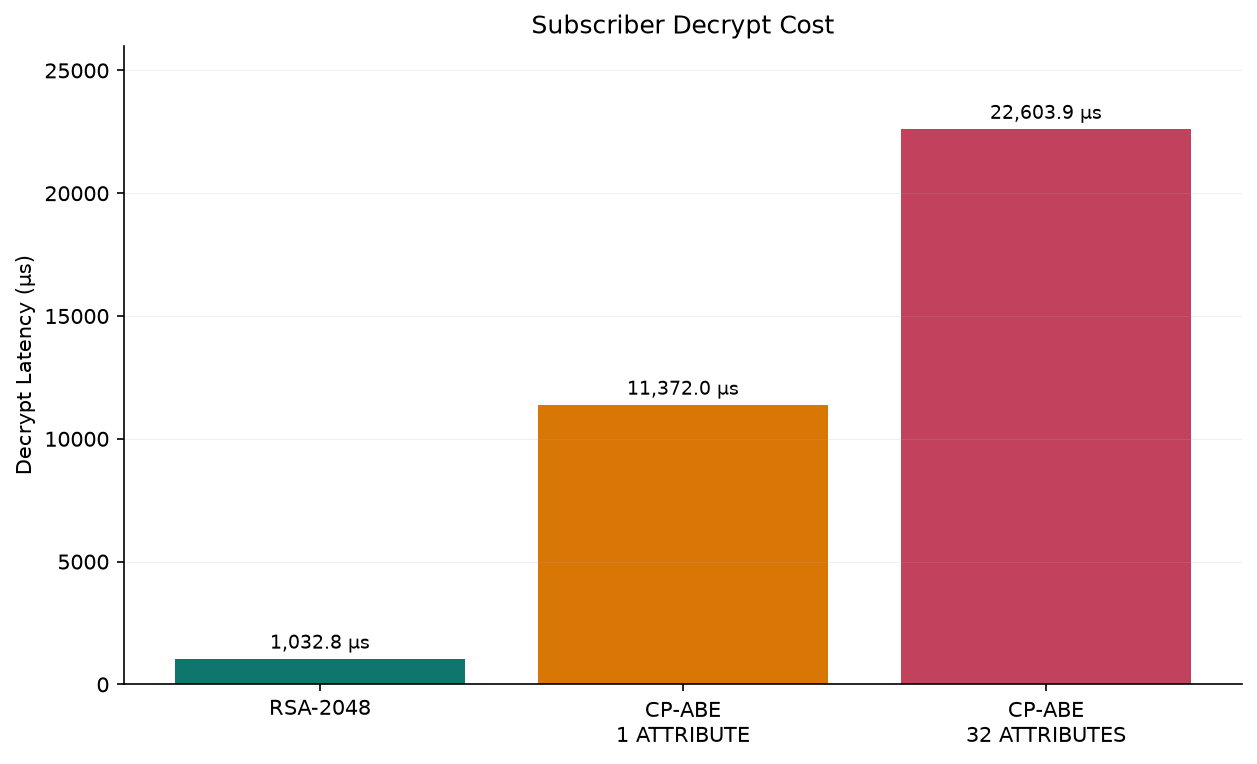
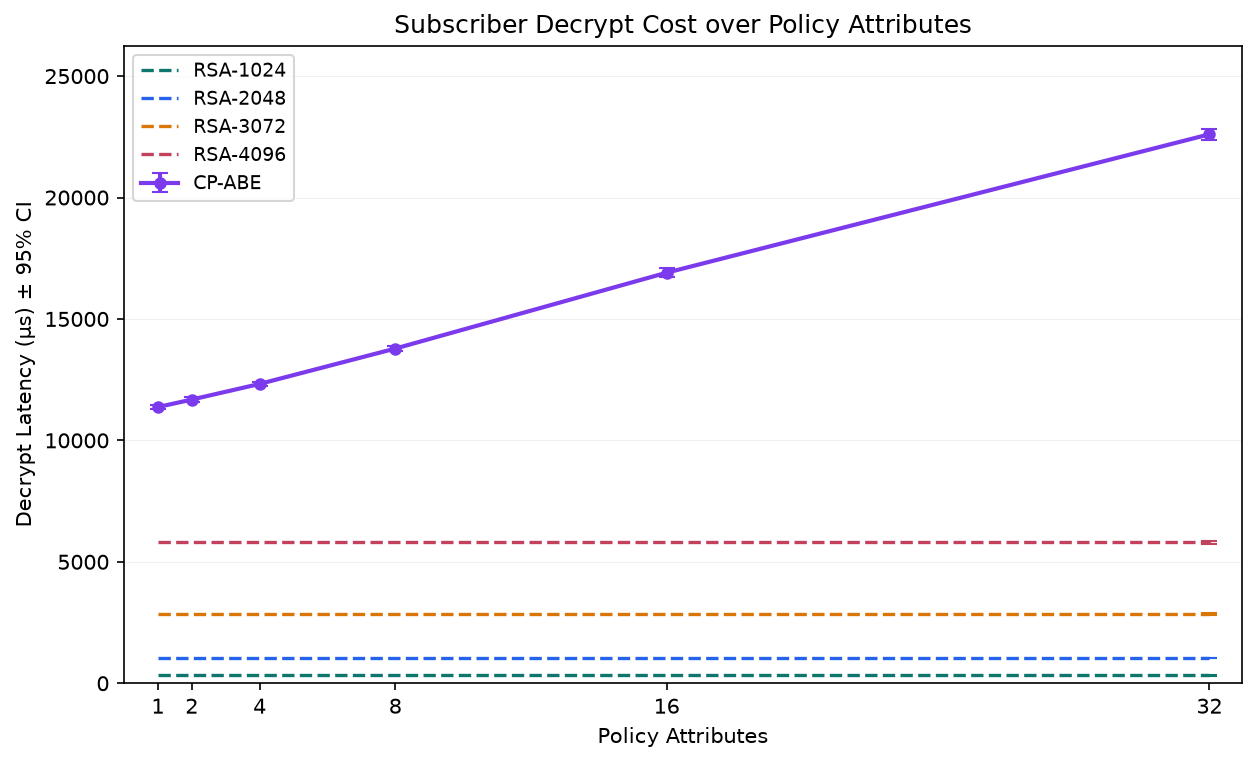
Fix comparison of cpabe - rsa on decryption

diff --git a/microbenchmark/python/template/attribute_key_scaling_template.html b/microbenchmark/python/template/attribute_key_scaling_template.html
@@ -765,7 +765,7 @@
                     </article>
 
                     <aside class="comparison-explanation">
-                        <div class="comparison-label">Bandwidth Intersection</div>
+                        <div class="comparison-label">Measured Ciphertext Size</div>
                         <div class="comparison-value">≈{{BytesCrossoverLow}} - {{BytesCrossoverHigh}} Subscribers</div>
                         <p><strong>AT {{MinAttributeLabel}}:</strong> RSA produces smaller key ciphertexts. Equality
                             with CP-ABE is
@@ -786,7 +786,7 @@
                     </article>
 
                     <aside class="comparison-explanation">
-                        <div class="comparison-label">Publisher CPU Intersection</div>
+                        <div class="comparison-label">Measured Encrypt Comparison</div>
                         <div class="comparison-value">≈{{EncryptCpuCrossoverLow}} - {{EncryptCpuCrossoverHigh}}
                             Subscribers</div>
                         <p><strong>AT {{MinAttributeLabel}}:</strong> RSA costs the publisher less CPU. Equality with
@@ -799,7 +799,7 @@
                 <div class="comparison-row">
                     <article class="plot-card">
                         <div class="plot-copy">
-                            <h3>CP-ABE vs. RSA: Subscriber Decrypt Cost</h3>
+                            <h3>CP-ABE vs. RSA: Decrypt Cost by Policy and Key Size</h3>
                         </div>
                         <div class="plot-frame">
                             <img src="{{DecryptCpuCrossoverPlot}}">
@@ -807,11 +807,14 @@
                     </article>
 
                     <aside class="comparison-explanation">
-                        <div class="comparison-label">Subscriber CPU Intersection</div>
-                        <div class="comparison-value">None</div>
-                        <p><strong>AT {{MinAttributeLabel}}:</strong> CP-ABE costs the subscriber
-                            {{DecryptPenaltyMin}}× an RSA-{{FixedRsaKeyBits}} unwrap</p>
-                        <p><strong>AT {{MaxAttributeLabel}}:</strong> That penalty widens to {{DecryptPenaltyMax}}×</p>
+                        <div class="comparison-label">RSA-{{FixedRsaKeyBits}} Decrypt Ratio</div>
+                        <div class="comparison-value">
+                            {{DecryptPenaltyMin}}× - {{DecryptPenaltyMax}}× RSA
+                        </div>
+                        <p><strong>AT {{MinAttributeLabel}}:</strong> CP-ABE requires
+                            {{DecryptPenaltyMin}}× the measured RSA-{{FixedRsaKeyBits}} decrypt latency.</p>
+                        <p><strong>AT {{MaxAttributeLabel}}:</strong> CP-ABE requires
+                            {{DecryptPenaltyMax}}× the measured RSA-{{FixedRsaKeyBits}} decrypt latency.</p>
                     </aside>
                 </div>
 

diff --git a/microbenchmark/results/attribute-key-scaling/report.html b/microbenchmark/results/attribute-key-scaling/report.html
@@ -765,7 +765,7 @@
                     </article>
 
                     <aside class="comparison-explanation">
-                        <div class="comparison-label">Bandwidth Intersection</div>
+                        <div class="comparison-label">Measured Ciphertext Size</div>
                         <div class="comparison-value">≈9.3 - 52.2 Subscribers</div>
                         <p><strong>AT 1 ATTRIBUTE:</strong> RSA produces smaller key ciphertexts. Equality
                             with CP-ABE is
@@ -786,7 +786,7 @@
                     </article>
 
                     <aside class="comparison-explanation">
-                        <div class="comparison-label">Publisher CPU Intersection</div>
+                        <div class="comparison-label">Measured Encrypt Comparison</div>
                         <div class="comparison-value">≈897 - 7,054
                             Subscribers</div>
                         <p><strong>AT 1 ATTRIBUTE:</strong> RSA costs the publisher less CPU. Equality with
@@ -799,7 +799,7 @@
                 <div class="comparison-row">
                     <article class="plot-card">
                         <div class="plot-copy">
-                            <h3>CP-ABE vs. RSA: Subscriber Decrypt Cost</h3>
+                            <h3>CP-ABE vs. RSA: Decrypt Cost by Policy and Key Size</h3>
                         </div>
                         <div class="plot-frame">
                             <img src="decrypt_cpu_crossover.png">
@@ -807,11 +807,14 @@
                     </article>
 
                     <aside class="comparison-explanation">
-                        <div class="comparison-label">Subscriber CPU Intersection</div>
-                        <div class="comparison-value">None</div>
-                        <p><strong>AT 1 ATTRIBUTE:</strong> CP-ABE costs the subscriber
-                            11.0× an RSA-2048 unwrap</p>
-                        <p><strong>AT 32 ATTRIBUTES:</strong> That penalty widens to 21.9×</p>
+                        <div class="comparison-label">RSA-2048 Decrypt Ratio</div>
+                        <div class="comparison-value">
+                            11.0× - 21.9× RSA
+                        </div>
+                        <p><strong>AT 1 ATTRIBUTE:</strong> CP-ABE requires
+                            11.0× the measured RSA-2048 decrypt latency.</p>
+                        <p><strong>AT 32 ATTRIBUTES:</strong> CP-ABE requires
+                            21.9× the measured RSA-2048 decrypt latency.</p>
                     </aside>
                 </div>
 

diff --git a/microbenchmark/python/src/attribute_key_scaling_report.py b/microbenchmark/python/src/attribute_key_scaling_report.py
@@ -956,55 +956,142 @@ def PlotEncryptCpuCrossover(summary: CpuCrossoverSummary) -> None:
     print(f"Saved -> {ENCRYPT_CPU_CROSSOVER_PNG_FILE}")
 
 
-def PlotDecryptCpuCrossover(summary: CpuCrossoverSummary) -> None:
+def PlotDecryptCpuCrossover(
+    results: dict[str, BenchmarkMetrics],
+) -> None:
 
     figure, axis = plt.subplots(figsize=(8.5, 5.2))
 
-    labels: list[str] = [
-        f"RSA-{FIXED_RSA_KEY_BITS}",
-        f"CP-ABE\n{FormatAttributeLabel(ATTRIBUTE_COUNTS[0])}",
-        f"CP-ABE\n{FormatAttributeLabel(ATTRIBUTE_COUNTS[-1])}",
-    ]
+    cpabeMeans: list[float] = []
+    cpabeCiHalfs: list[float] = []
+    largestValue: float = 0.0
 
-    values: list[float] = [
-        summary.RsaDecryptMicros,
-        summary.CpabeDecryptMicrosMin,
-        summary.CpabeDecryptMicrosMax,
-    ]
+    for attributeCount in ATTRIBUTE_COUNTS:
 
-    positions: list[int] = [0, 1, 2]
+        benchmarkCaseId: str = f"decrypt/CPABEAttributes/{attributeCount}"
 
-    axis.bar(
-        positions,
-        values,
-        color=[
-            TOTAL_CIPHERTEXT_COLOR,
-            ENCRYPT_COLOR,
-            KEYGEN_COLOR,
-        ],
-    )
+        metrics: BenchmarkMetrics | None = results.get(benchmarkCaseId)
 
-    largestValue: float = max(values)
+        if metrics is None:
+            sys.exit(
+                f"[error] missing benchmark case "
+                f"'{benchmarkCaseId}' in {BENCH_FILE}"
+            )
 
-    for index in range(len(values)):
+        latencyMean: float
+        latencyCI: float
 
-        axis.annotate(
-            f"{values[index]:,.1f} µs",
-            (positions[index], values[index]),
-            textcoords="offset points",
-            xytext=(0, 5),
-            ha="center",
-            fontsize=9,
+        latencyMean, latencyCI = MeanAndConfidenceInterval(
+            metrics.NsPerOperation,
+            T_95,
         )
 
-    axis.set_xticks(positions)
-    axis.set_xticklabels(labels)
-    axis.set_ylim(0.0, largestValue * 1.15)
-    axis.set_title("Subscriber Decrypt Cost", fontsize=12)
-    axis.set_ylabel("Decrypt Latency (µs)")
-    axis.grid(True, axis="y", linestyle="-", linewidth=0.5, alpha=0.18)
-    axis.spines["top"].set_visible(False)
-    axis.spines["right"].set_visible(False)
+        meanMicros: float = latencyMean / 1000.0
+        ciMicros: float = latencyCI / 1000.0
+
+        cpabeMeans.append(meanMicros)
+        cpabeCiHalfs.append(ciMicros)
+
+        largestValue = max(
+            largestValue,
+            meanMicros + ciMicros,
+        )
+
+    # Plot the measured CP-ABE decrypt scaling across policy attributes.
+    axis.errorbar(
+        ATTRIBUTE_COUNTS,
+        cpabeMeans,
+        yerr=cpabeCiHalfs,
+        label="CP-ABE",
+        color=DECRYPT_COLOR,
+        marker="o",
+        linewidth=2.0,
+        markersize=5,
+        capsize=4,
+    )
+
+    rsaColors: list[str] = [
+        TOTAL_CIPHERTEXT_COLOR,
+        "#2563eb",
+        ENCRYPT_COLOR,
+        KEYGEN_COLOR,
+    ]
+
+    for index in range(len(RSA_KEY_BITS_LIST)):
+
+        rsaKeyBits: int = RSA_KEY_BITS_LIST[index]
+
+        benchmarkCaseId = f"decrypt/RSAKeyBits/{rsaKeyBits}"
+
+        metrics = results.get(benchmarkCaseId)
+
+        if metrics is None:
+            sys.exit(
+                f"[error] missing benchmark case "
+                f"'{benchmarkCaseId}' in {BENCH_FILE}"
+            )
+
+        latencyMean, latencyCI = MeanAndConfidenceInterval(
+            metrics.NsPerOperation,
+            T_95,
+        )
+
+        rsaMeanMicros: float = latencyMean / 1000.0
+        rsaCiMicros: float = latencyCI / 1000.0
+        rsaColor: str = rsaColors[index % len(rsaColors)]
+
+        # Each RSA line represents one measured key size across the policy axis.
+        axis.hlines(
+            rsaMeanMicros,
+            ATTRIBUTE_COUNTS[0],
+            ATTRIBUTE_COUNTS[-1],
+            color=rsaColor,
+            linestyle="--",
+            linewidth=1.6,
+            label=f"RSA-{rsaKeyBits}",
+        )
+
+        # Show the measured RSA confidence interval at the end of its line.
+        axis.errorbar(
+            [ATTRIBUTE_COUNTS[-1]],
+            [rsaMeanMicros],
+            yerr=[rsaCiMicros],
+            color=rsaColor,
+            fmt="none",
+            capsize=4,
+        )
+
+        largestValue = max(
+            largestValue,
+            rsaMeanMicros + rsaCiMicros,
+        )
+
+    axis.set_xticks(ATTRIBUTE_COUNTS)
+    axis.set_xlim(
+        0.0,
+        float(ATTRIBUTE_COUNTS[-1]) * 1.03,
+    )
+    axis.set_ylim(
+        0.0,
+        largestValue * 1.15,
+    )
+    axis.set_title(
+        "Subscriber Decrypt Cost over Policy Attributes",
+        fontsize=12,
+    )
+    axis.set_xlabel("Policy Attributes")
+    axis.set_ylabel("Decrypt Latency (µs) ± 95% CI")
+    axis.grid(
+        True,
+        axis="y",
+        linestyle="-",
+        linewidth=0.5,
+        alpha=0.18,
+    )
+    axis.legend(
+        fontsize=9,
+        loc="upper left",
+    )
 
     figure.tight_layout()
     figure.savefig(
@@ -1396,7 +1483,14 @@ def WriteHtmlReport(
     )
     report = report.replace("{{MaxSubscriberCount}}", str(maxSubscriberCount))
     report = report.replace("{{FixedRsaKeyBits}}", str(FIXED_RSA_KEY_BITS))
-
+    report = report.replace(
+        "{{MinRsaKeyBits}}",
+        str(RSA_KEY_BITS_LIST[0]),
+    )
+    report = report.replace(
+        "{{MaxRsaKeyBits}}",
+        str(RSA_KEY_BITS_LIST[-1]),
+    )
     report = report.replace("{{CpabeEncryptTable}}", cpabeEncryptTable)
     report = report.replace("{{CpabeDecryptTable}}", cpabeDecryptTable)
     report = report.replace("{{CpabeKeygenTable}}", cpabeKeygenTable)
@@ -1623,7 +1717,7 @@ def Main() -> None:
 
     PlotCrossover(crossoverSummary)
     PlotEncryptCpuCrossover(cpuCrossoverSummary)
-    PlotDecryptCpuCrossover(cpuCrossoverSummary)
+    PlotDecryptCpuCrossover(results)
     PlotEncryptDecryptAsymmetry(results)
 
     WriteHtmlReport(results, crossoverSummary, cpuCrossoverSummary)
